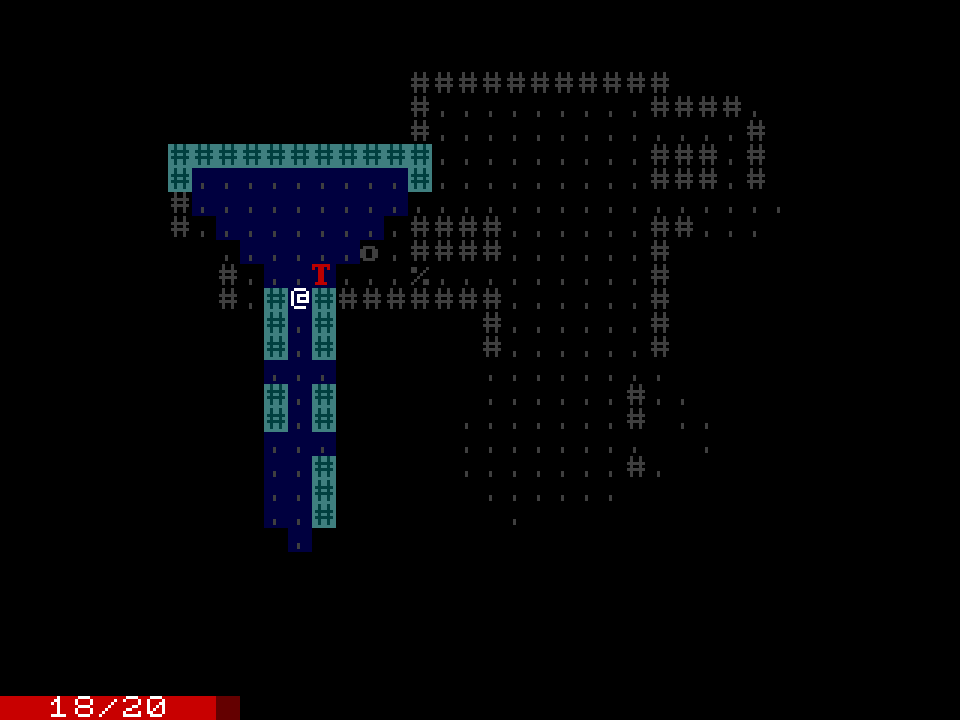
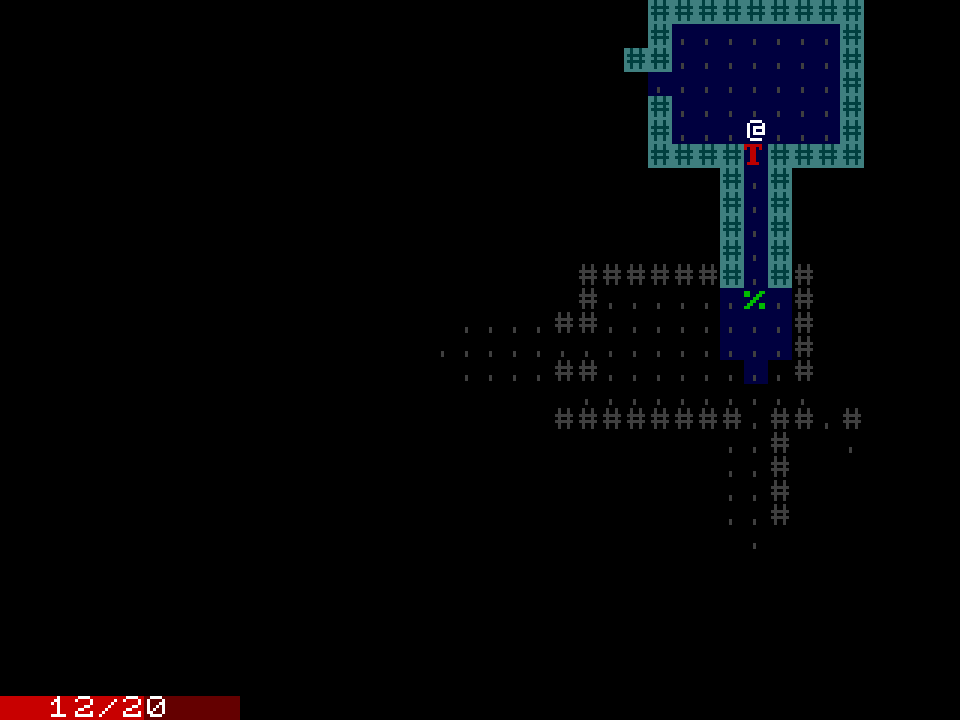
Stop rendering previously-visible characters

diff --git a/collections/_roguelike-tutorial-2020/part6.md b/collections/_roguelike-tutorial-2020/part6.md
@@ -28,6 +28,7 @@ In this post:
  - [NPC Line of Sight](#npc-line-of-sight)
  - [NPC Memory](#npc-memory)
  - [Combat](#combat)
+ - [Hide Previously-seen NPCs](#hide-previously-seen-npcs)
 
 ## {% anchor command-line-options-for-debugging | Command-Line Options for Debugging %}
 
@@ -1101,8 +1102,36 @@ impl<'a> View<&'a AppData> for AppView {
 
 And that's it. NPCs and the player can kill one another, and leave behind corpses.
 
+Reference implementation branch: [part-6.4](https://github.com/stevebob/chargrid-roguelike-tutorial-2020/tree/part-6.4)
+
+## {% anchor hide-previously-seen-npcs | Hide Previously-seen NPCs %}
+
+Now that NPCs can move around on their own, it's possible for an NPC which is out of the player's field of view to move.
+At the moment, there's nothing preventing the game from rendering the movements of an NPC which isn't currently visible
+(it will still be greyed-out of course). We _could_ have the game keep track of the most-recently-seen contents of each
+cell, so it could continue to render a moved NPC at its original location. In the interest of simplicity however, let's
+just change rendering code so the only previously-visible things we render are walls and floor:
+
+{% pygments rust %}
+// app.rs
+...
+fn previously_visible_view_cell_of_tile(tile: Tile) -> ViewCell {
+    match tile {
+        Tile::Floor => ViewCell::new()
+            .with_character('.')
+            .with_foreground(Rgb24::new_grey(63))
+            .with_background(Rgb24::new_grey(0)),
+        Tile::Wall => ViewCell::new()
+            .with_character('#')
+            .with_foreground(Rgb24::new_grey(63))
+            .with_background(Rgb24::new_grey(0)),
+        _ => ViewCell::new(),
+    }
+}
+{% endpygments %}
+
 {% image screenshot-end.png %}
 
-Reference implementation branch: [part-6.4](https://github.com/stevebob/chargrid-roguelike-tutorial-2020/tree/part-6.4)
+Reference implementation branch: [part-6.5](https://github.com/stevebob/chargrid-roguelike-tutorial-2020/tree/part-6.5)
 
 {% local roguelike-tutorial-2020-part-7 | Click here for the next part! %}
